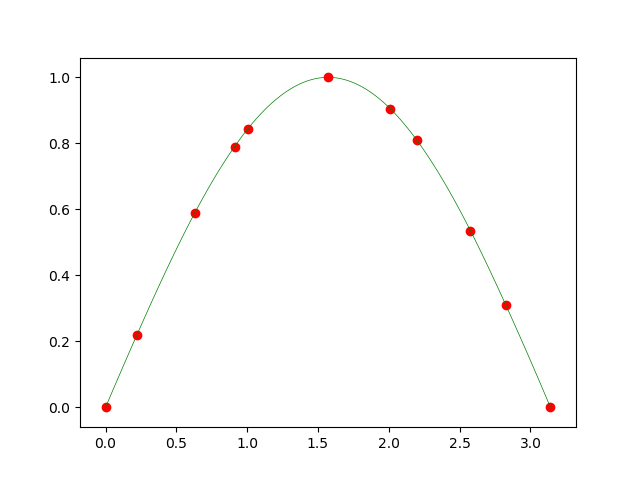
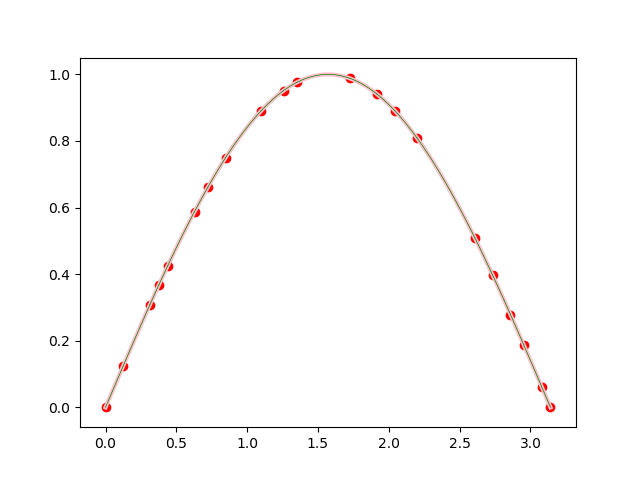
zhaoxiaohui

diff --git a/4-0.py b/4-0.py
@@ -49,10 +49,10 @@ def createAb(h, a, choice=0, n=10):
         return A, b
     if choice == 1:
         A = np.zeros((n + 1, n + 1))
-        A[0][0] = 2*h[0]
+        A[0][0] = 2 * h[0]
         A[0][1] = h[0]
-        A[n][n-1] = 2*h[n-1]
-        A[n][n] = h[n-1]
+        A[n][n - 1] = 2 * h[n - 1]
+        A[n][n] = h[n - 1]
         for i in range(1, n):
             A[i][i - 1] = h[i - 1]
             A[i][i] = 2 * (h[i - 1] + h[i])
@@ -63,22 +63,22 @@ def createAb(h, a, choice=0, n=10):
         return A, b
     if choice == 2:
         A = np.zeros((n + 1, n + 1))
-        A[0][0] = h[0]*2/3
-        A[0][1] = h[0]*2
-        A[0][n-1] = h[n-1]*2/3
-        A[0][n] = h[n - 1]/ 3
+        A[0][0] = h[0] * 2 / 3
+        A[0][1] = h[0] * 2
+        A[0][n - 1] = h[n - 1] * 2 / 3
+        A[0][n] = h[n - 1] / 3
         A[n][0] = 1
-        A[n][n-1]=-1
+        A[n][n - 1] = -1
         for i in range(1, n):
             A[i][i - 1] = h[i - 1]
             A[i][i] = 2 * (h[i - 1] + h[i])
             A[i][i + 1] = h[i]
         b = np.zeros(n + 1)
-        b[0]=(a[1]-a[0])/h[0] - (a[n]-a[n-1])/h[n-1]
+        b[0] = (a[1] - a[0]) / h[0] - (a[n] - a[n - 1]) / h[n - 1]
         for i in range(1, n):
             b[i] = 3 * (a[i + 1] - a[i]) / h[i] - 3 * (a[i] - a[i - 1]) / h[i - 1]
         return A, b
-    if choice==3:
+    if choice == 3:
         A = np.zeros((n + 1, n + 1))
         A[0][0] = 1
         A[0][1] = -1
@@ -105,44 +105,43 @@ def calcd(a, c, h, n=10):
     return b, d
 
 
-N = 10
 
-a, h, y = initial()
-
-A, B = createAb(h, a, 3, N)
-
-c = cal(A, B)
-
-b, d = calcd(a, c, h, N)
-
-print(len(a))
-print(len(b))
-print(len(c))
-print(len(d))
 
 
 from matplotlib import pyplot as plt
-
-from scipy import interpolate
-
-
-def everysection(a,b,c,d,x,i):
-    xt = np.linspace(x[i], x[i+1], 100)
-    y = d[i] * (xt-x[i]) ** 3 + c[i] * (xt-x[i]) ** 2 + b[i] *(xt-x[i])+a[i]
+def everysection(a, b, c, d, x, i):
+    xt = np.linspace(x[i], x[i + 1], 100)
+    y = d[i] * (xt - x[i]) ** 3 + c[i] * (xt - x[i]) ** 2 + b[i] * (xt - x[i]) + a[i]
     plt.plot(xt, y, color="green", linewidth=0.5)
+
 
 def inplot():
     x = np.linspace(0, np.pi, 100, endpoint=True)
     y = np.sin(x)
-    # plt.plot(x, y,color='pink',linewidth=3)
-def pAll(a,b,c,d,x,N):
+    plt.plot(x, y,color='pink',linewidth=3)
+
+
+def pAll(a, b, c, d, x, N):
     for i in range(N):
-        everysection(a,b,c,d,x,i)
-    plt.scatter(x,a,color='red',marker='o')
+        everysection(a, b, c, d, x, i)
+        print(i)
+    plt.scatter(x, a, color='red', marker='o')
     plt.savefig('a.png')
     plt.show()
 
-inplot()
-pAll(a,b,c,d,x11,N)
 
 
+def run(N=10,X=x11,ch=2):
+    a, h, y = initial(n=N, x=X)
+    A, B = createAb(h, a, choice=ch, n=N)
+    c = cal(A, B)
+    b, d = calcd(a, c, h, N)
+    print(len(a))
+    print(len(b))
+    print(len(c))
+    print(len(d))
+    inplot()
+    pAll(a, b, c, d, x=X, N=N)
+
+
+run(20,x21,1)

diff --git a/5-0.py b/5-0.py
@@ -1,0 +1,88 @@
+import math
+
+from scipy import integrate
+
+
+def f(x):
+    t = 1 / pow(2 * math.pi, 0.5)
+    return t * pow(math.e, (-0.5 * x * x))
+
+
+truevalue, e = integrate.quad(f, 0, 1)
+
+print(truevalue)
+
+
+n1=1000
+n2=1000
+
+#n % 2 ==0
+def Simpson(a=0,b=1,n=n1):
+    h=(b-a)/n
+    fx=[]
+    for i in range(n+1):
+        fx.append(f(a+h*i))
+    res=0
+    for i in range(n+1):
+        if i ==0:
+            res+=fx[i]
+            continue
+        if i==n:
+            res += fx[i]
+            continue
+        if i%2 ==0:
+            res+=2*fx[i]
+        if i%2 ==1:
+            res+=4*fx[i]
+    res=res*h/3
+    error=truevalue-res
+    return res,error
+
+def Compsite(a=0,b=1,n=n2):
+    h = (b - a) / n
+    fx = []
+    for i in range(n + 1):
+        fx.append(f(a + h * i))
+    res=0
+    for i in range(n + 1):
+        if i==0:
+            res+=fx[i]
+            continue
+        if i==n:
+            res+=fx[i]
+            continue
+        res+=2*fx[i]
+    res=res*h/2
+    error=truevalue-res
+    return res,error
+
+
+print('SIMPSON',Simpson())
+print('Compsite',Compsite())
+
+error0=1e-4
+
+def find1(a=0,b=1,error=error0):
+    res=0
+    for i in range(10,1000):
+        v,e=Simpson(a=a,b=b,n=i)
+        if abs(e)<error:
+            res=i
+            break
+    h=(b-a)/res
+    n=res
+    return h,n
+
+def find2(a=0,b=1,error=error0):
+    res=0
+    for i in range(10,1000):
+        v,e=Compsite(a=a,b=b,n=i)
+        if abs(e)<error:
+            res=i
+            break
+    h=(b-a)/res
+    n=res
+    return h,n
+
+print(find1())
+print(find2())

diff --git a/6-0.py b/6-0.py
@@ -1,0 +1,75 @@
+import numpy as np
+import matplotlib.pyplot as plt
+import math
+
+N = 10
+
+
+def f(t, w):
+    return 1 + w * w
+
+
+def pt(res, color):
+    plt.scatter(np.array(res).T[0], np.array(res).T[1], color=color)
+
+
+def inplot():
+    x = np.linspace(0, np.pi / 2.2, 100, endpoint=True)
+    y = np.tan(x)
+    plt.plot(x, y, color='pink', linewidth=3)
+
+
+def Euler(a=0, b=math.pi / 2.2, n=N, alpha=0):
+    h = (b - a) / n
+    t = a
+    w = alpha
+    res = [[t, w]]
+    for i in range(1, n):
+        w += h * f(t, w)
+        t += h
+        res.append([t, w])
+
+    return res
+
+
+def improvedEuler(a=0, b=math.pi / 2.2, n=N, alpha=0):
+    h = (b - a) / n
+    t = a
+    w = alpha
+    res = [[t, w]]
+    for i in range(1, n):
+        t1 = w + h * f(t, w)
+        w += h / 2 * (f(t, w) + f(t + h, t1))
+        t += h
+        res.append([t, w])
+    return res
+
+
+def RungeKutta(a=0, b=math.pi / 2.2, n=N, alpha=0):
+    h = (b - a) / n
+    t = a
+    w = alpha
+    res = [[t, w]]
+    for i in range(1, n):
+        k1 = h * f(t, w)
+        k2 = h * f(t + h / 2, w + k1 / 2)
+        k3 = h * f(t + h / 2, w + k2 / 2)
+        k4 = h * f(t + h / 2, w + k3)
+        w += (k1 + 2 * k2 + 2 * k3 + k4) / 6
+        t += h
+        res.append([t, w])
+    return res
+
+
+res1 = Euler()
+pt(res1, 'green')
+
+res2 = improvedEuler()
+pt(res2, 'red')
+
+res3 = RungeKutta()
+pt(res3, 'blue')
+
+inplot()
+
+plt.show()

diff --git a/6-1.py b/6-1.py
@@ -1,0 +1,46 @@
+import numpy as np
+import matplotlib.pyplot as plt
+import math
+
+N = 1000
+mu = 0.01
+
+
+def f1(t, w1, w2):
+    return w2
+
+
+def f2(t, w1, w2):
+    return mu * (1 - w1 * w1) * w2 - w1
+
+
+def pt(res):
+    plt.plot(np.array(res).T[0], np.array(res).T[1])
+    plt.show()
+    plt.plot(np.array(res).T[0], np.array(res).T[2])
+    plt.show()
+
+def RungeKutta2(a=0, b=10, n=N, alpha=1 , alpha1=0):
+    h = (b - a) / n
+    t = a
+    w1 = alpha
+    w2 = alpha1
+    res=[[t,w1,w2]]
+    for i in range(N):
+        k11=h*f1(t,w1,w2)
+        k12=h*f2(t,w1,w2)
+        k21=h*f1(t+h/2,w1+k11/2,w2+k12/2)
+        k22=h*f2(t+h/2,w1+k11/2,w2+k12/2)
+        k31=h*f1(t+h/2,w1+k21/2,w2+k22/2)
+        k32=h*f2(t+h/2,w1+k21/2,w2+k22/2)
+        k41=h*f1(t+h/2,w1+k31/2,w2+k32/2)
+        k42=h*f2(t+h/2,w1+k31/2,w2+k32/2)
+        w1+=(k11+2*k21+2*k31+k41)/6
+        w2+=(k12+2*k22+2*k32+k42)/6
+        t+=h
+        res.append([t,w1,w2])
+    return res
+
+
+res=RungeKutta2()
+pt(res)
